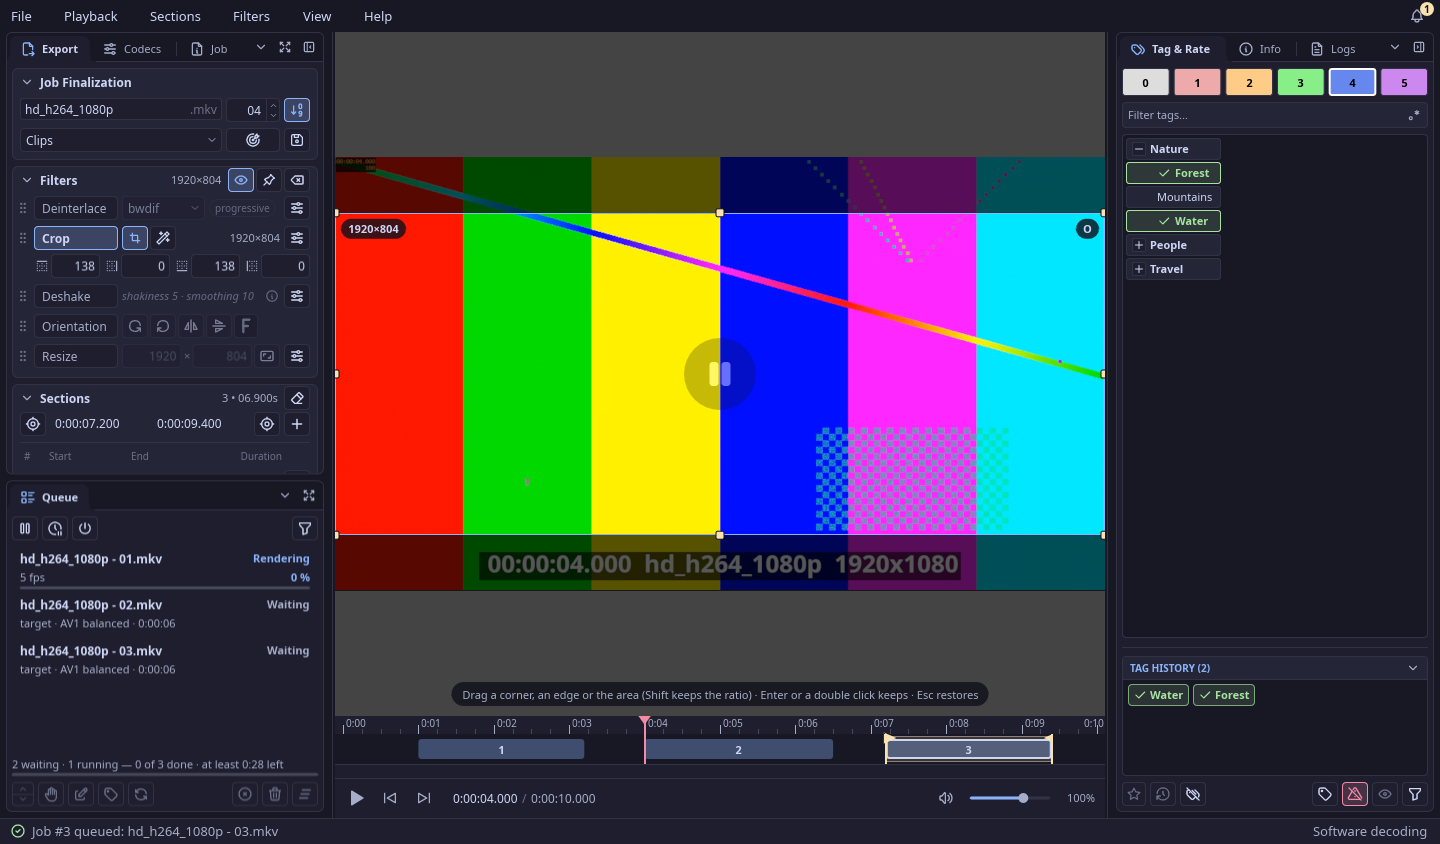
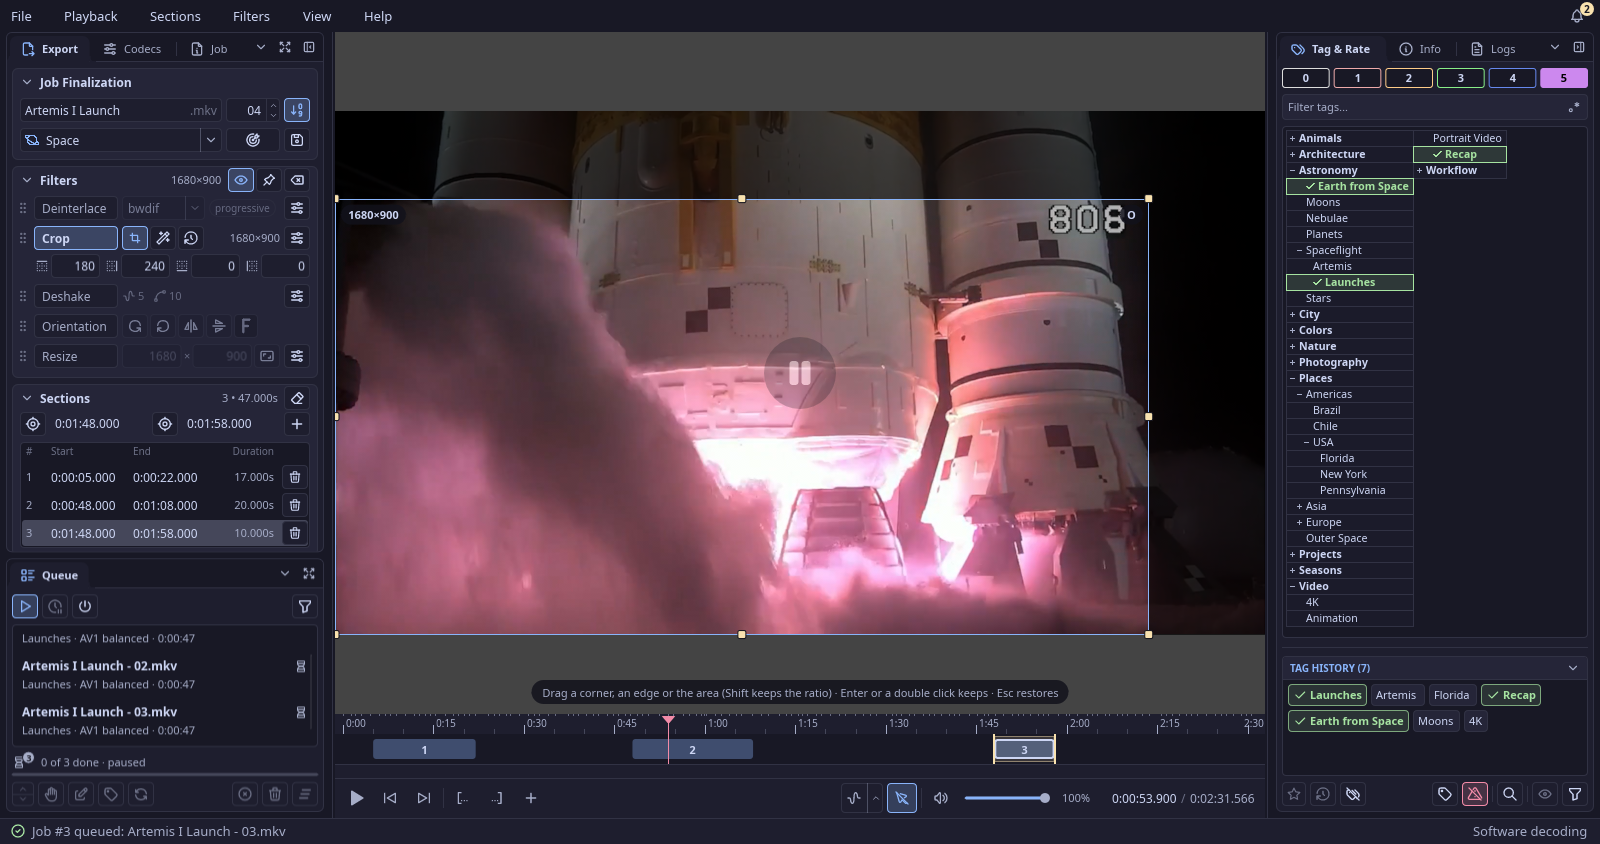
docs: refresh the README for the public repository
New screenshots with the public domain NASA recap of the Artemis I launch (credited in
docs/screenshots/CREDITS.md), badges, a feature list, how RustCut works with RustView, a quick start,
limitations, contributing and a security policy (SECURITY.md).

diff --git a/README.md b/README.md
@@ -1,20 +1,52 @@
 # RustCut
 
+[![License: MIT](https://img.shields.io/badge/license-MIT-blue)](LICENSE)
+[![Release](https://img.shields.io/github/v/release/vommie/rustcut)](https://github.com/vommie/rustcut/releases)
+![Platform: Arch Linux / Manjaro, KDE Plasma](https://img.shields.io/badge/platform-Arch%20%7C%20Manjaro%20%7C%20KDE%20Plasma-1793d1)
+
 A fast local video cutter for Arch Linux / KDE Plasma, written in Rust with a Slint UI and mpv as the player: mark sections,
-apply filters (crop, deinterlace, resize, orientation, deshake, ...), render them through a queue with professional encoding profiles
-(x264, x265, AV1), and tag and rate the clips directly in the [RustView](https://github.com/vommie/rustview) library.
+apply filters, render them through a queue with professional encoding profiles, and tag and rate the clips directly in the
+[RustView](https://github.com/vommie/rustview) library.
 
-RustCut is the successor of PyCutRv. Status: early releases (0.0.x) on the GitHub releases page; see `CHANGELOG.md` for
-what changed.
+RustCut is the successor of [PyCutXN](https://github.com/vommie/pycutxn). Status: early releases (0.0.x) on the
+[Releases page](https://github.com/vommie/rustcut/releases); [CHANGELOG.md](CHANGELOG.md) lists what changed.
 
-![The main window: sections on the timeline, the filters, a queue with one job rendering, tags and a rating for the
-next job](docs/screenshots/main.png)
+![The main window: three sections on the timeline, the export card with the target folder, a paused queue, tags and a
+rating for the next job](docs/screenshots/main.png)
 
-![The crop edited on the video: the edges in the Filters card, the output size and the ratio button on the
-frame](docs/screenshots/crop.png)
+## Features
 
-The screenshots come from the test environment and are retaken with one command: `scripts/readme-shots.sh` (after
-`cargo build -p rustcut -p rustcut-thumbs`).
+- **Sections on a timeline:** mark start and end with keys or the mouse, move, resize, duplicate and reorder sections, frame-exact
+  seeking, J/K/L shuttle, thumbnails over the timeline while you hover it.
+- **Filters with a live preview:** crop (drawn on the video, auto-crop, crop history), deinterlace, resize, orientation (rotate, mirror)
+  and deshake; preview and render use the same filter chain.
+- **Render queue:** several jobs at once (never two to the same target), pause and reorder; every output is written to a temporary
+  file, checked with ffprobe and only then renamed into place.
+- **Encoding profiles** for x264, x265, SVT-AV1 and rav1e with a simple view (quality, speed) and an expert view; ffmpeg checks a profile
+  before you use it, and a probe render plays a few seconds of the result.
+- **Tag & Rate in RustView:** RustView's tag tree (also in its compact mode), history and rating bar; the rendered clips appear in
+  RustView with their tags and rating.
+- **Target folders and the folder wheel:** favorite folders with icons, colors and their own place on a wheel you open with the middle
+  mouse button over the video.
+- **Plugins** as WebAssembly components (see [docs/plugins.md](docs/plugins.md)) that can suggest targets, tags and ratings.
+- **Everything persists:** the dock layout, panels, filters, the queue and every choice survive a restart.
+
+| | |
+| --- | --- |
+| ![The crop drawn on the video with the output size](docs/screenshots/crop.png) | ![A thumbnail over the timeline while the pointer hovers it](docs/screenshots/thumbnails.png) |
+| ![The folder wheel: favorite target folders with icons around the video](docs/screenshots/folder-wheel.png) | ![The Codecs panel: an AV1 profile with quality, speed, container and audio](docs/screenshots/codecs.png) |
+
+## RustView and RustCut
+
+RustCut talks to [RustView](https://github.com/vommie/rustview) only through its command line API (`rustview api ... --json`): it
+reads the tag tree, recognizes videos RustView already knows by their hash, and writes the tags and rating of every rendered clip into
+the RustView library. Without RustView, RustCut cuts and renders as usual; only the Tag & Rate panel stays empty.
+
+## Quick start
+
+1. Install RustCut (and RustView for Tag & Rate), then open a video: `rustcut video.mp4` or File > Open.
+2. Mark sections with the start, end and `+` buttons under the timeline, switch on the filters you need and pick a profile in the Codecs panel.
+3. Choose the target folder (or the folder wheel), tags and a rating, and press `Ctrl+S`: the job goes into the queue and renders.
 
 ## Install (Arch Linux, Manjaro)
 
@@ -36,16 +68,30 @@ sudo pacman -U dist/rustcut-<version>-1-x86_64.pkg.tar.zst
 `scripts/check-deps.sh` lists every package the build and RustCut need, with the exact `sudo pacman -S` command for what
 is missing. RustCut needs `mpv` and `ffmpeg`; Tag & Rate needs RustView (a package from its GitHub releases).
 
-## Develop
+## Limitations
 
-`cargo run -p rustcut -- [FILE...]` starts RustCut (`--home DIR` keeps its settings, queue and logs in `DIR`).
-`scripts/check-all.sh --fast` runs formatting, clippy, the tests and the dependency checks; without `--fast` it also builds
-and lints the package. The rules for contributors are in `AGENTS.md`.
+- Arch Linux and Manjaro with KDE Plasma only; X11 is tested, Wayland is supported by design but not tested yet.
+- Hardware encoders are used only when a one-frame test encode works on the machine.
+
+## Contributing
+
+Bug reports and ideas are welcome as [issues](https://github.com/vommie/rustcut/issues) and in the
+[discussions](https://github.com/vommie/rustcut/discussions). The repository does not take pull requests.
+[AGENTS.md](AGENTS.md) holds the rules for contributors and coding agents. `cargo run -p rustcut -- [FILE...]` starts RustCut
+(`--home DIR` keeps its settings, queue and logs in `DIR`); `scripts/check-all.sh --fast` runs formatting, clippy, the tests and
+the dependency checks.
+
+## Security
+
+Please report security problems privately, as described in [SECURITY.md](SECURITY.md).
 
 ## License
 
-RustCut's own source code is under the MIT License, see `LICENSE`.
+RustCut's own source code is under the MIT License, see [LICENSE](LICENSE).
 
 The built program as a whole is under the GPL-3.0: it links the system's libmpv and FFmpeg libraries, which are usually built
-under the GPL (Arch and Manjaro do), and it uses [Slint](https://slint.dev) under its GPL-3.0 option. `ATTRIBUTION.md` and `LICENSES/` hold the notices the
-licenses require; the package installs them to `/usr/share/licenses/rustcut/`.
+under the GPL (Arch and Manjaro do), and it uses [Slint](https://slint.dev) under its GPL-3.0 option. [ATTRIBUTION.md](ATTRIBUTION.md)
+and `LICENSES/` hold the notices the licenses require; the package installs them to `/usr/share/licenses/rustcut/`.
+
+The video in the screenshots is the public domain NASA recap of the Artemis I launch; see
+[docs/screenshots/CREDITS.md](docs/screenshots/CREDITS.md).

diff --git a/SECURITY.md b/SECURITY.md
@@ -1,0 +1,6 @@
+# Security policy
+
+Please do not report security problems in public issues. Use GitHub's private reporting instead:
+[Report a vulnerability](https://github.com/vommie/rustcut/security/advisories/new) (the **Security** tab of this repository).
+
+Describe what is affected, how to reproduce it and which version of RustCut you use. Only the newest release gets fixes.

diff --git a/docs/screenshots/CREDITS.md b/docs/screenshots/CREDITS.md
@@ -1,0 +1,7 @@
+# Media in the screenshots
+
+The video shown in the screenshots is not part of this repository:
+
+| File | Author | License | Source |
+|---|---|---|---|
+| Videos/NASA/Artemis/Artemis I Launch.mp4 | NASA | Public domain | https://images.nasa.gov/details/Artemis%20I%20Launches%20to%20the%20Moon%20(Official%20NASA%20Recap) |
